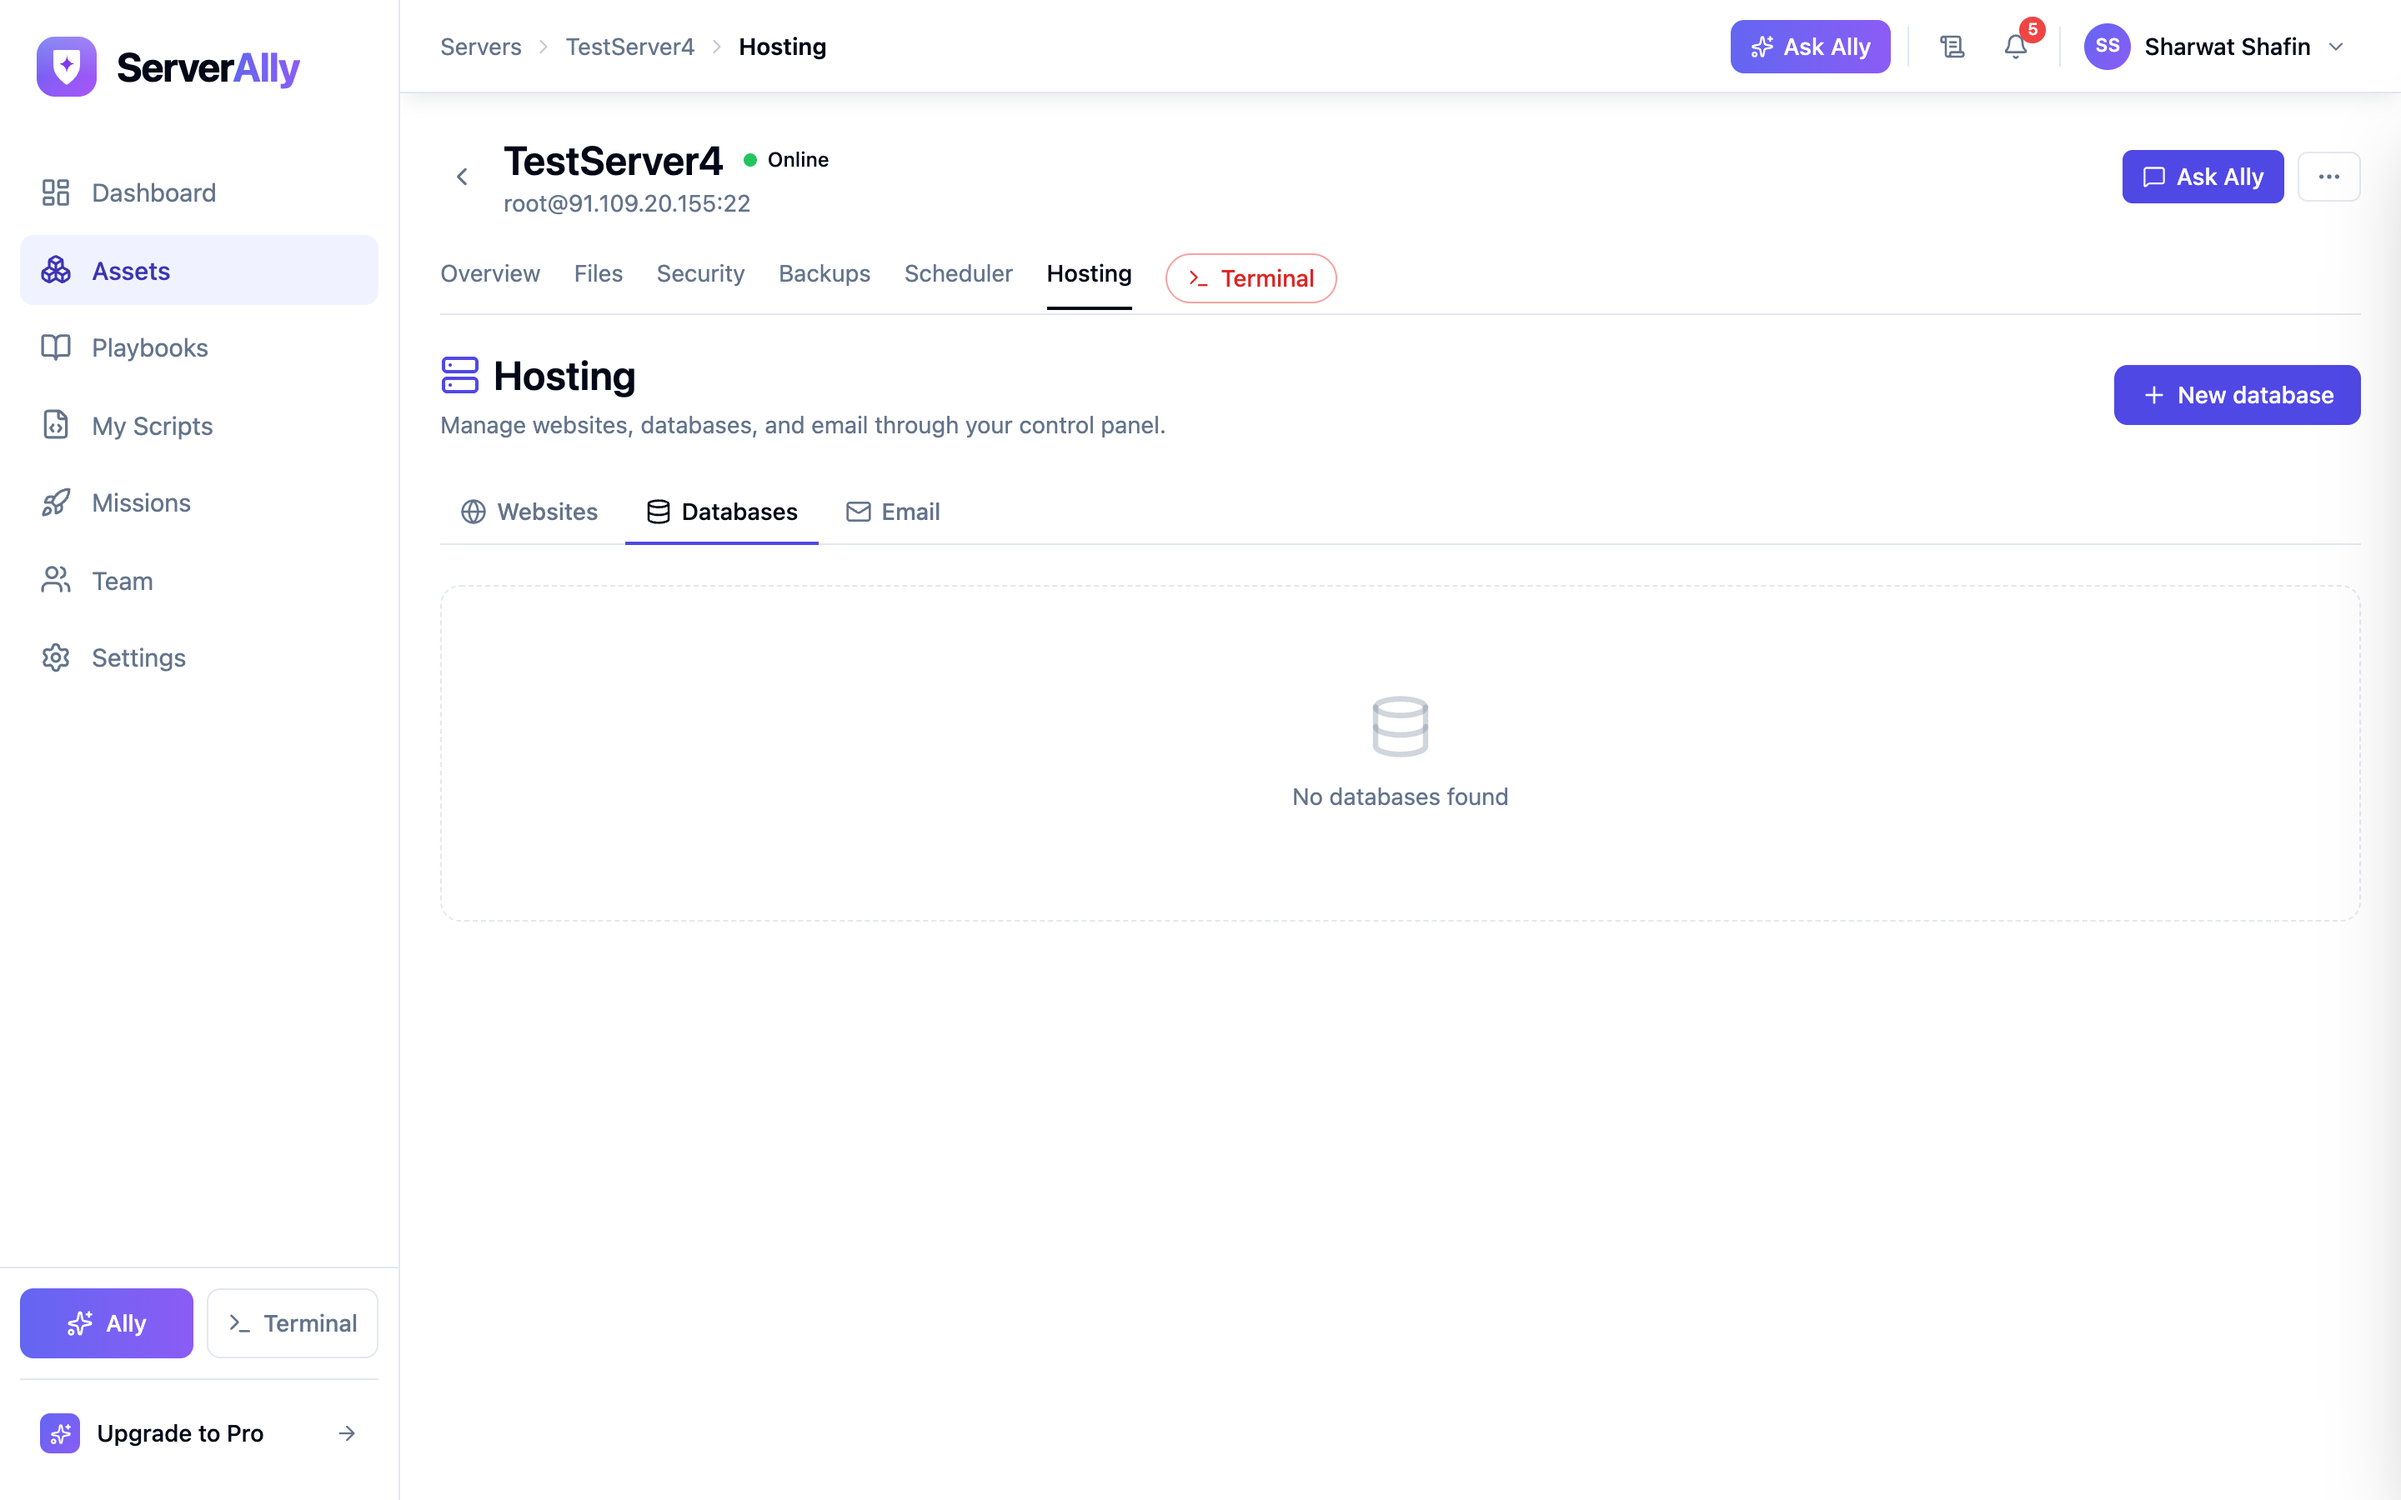
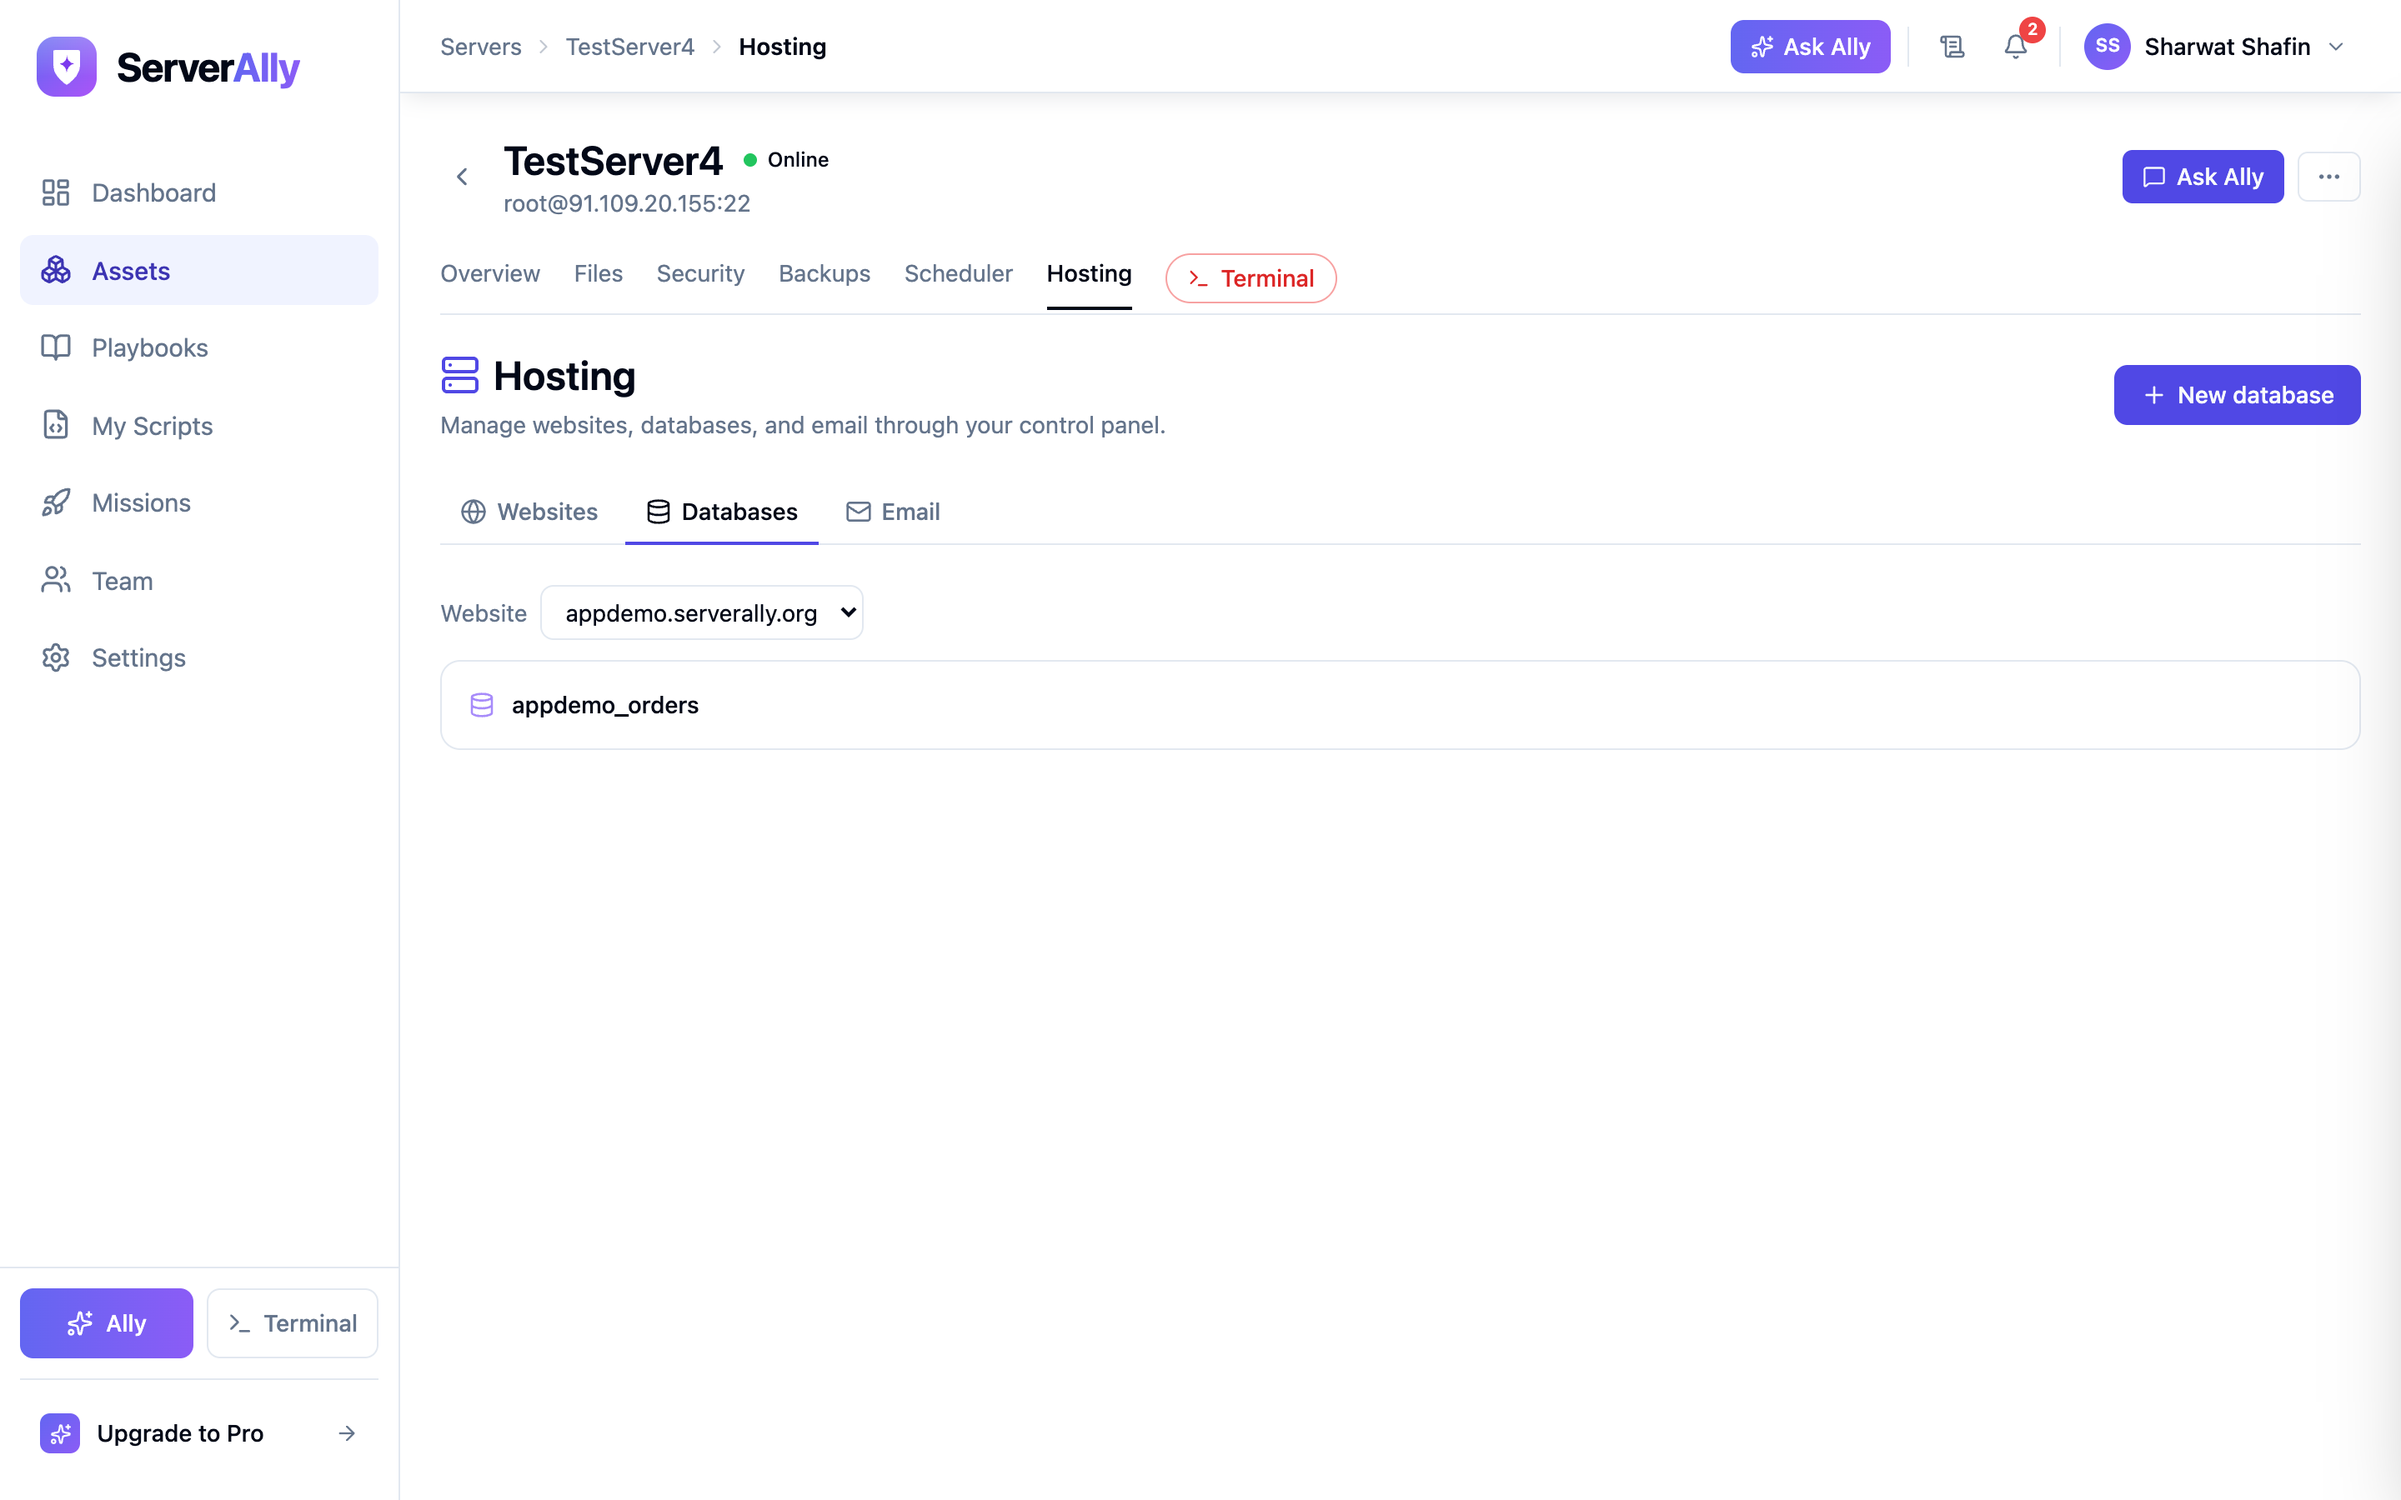
fix(hosting): CyberPanel Databases tab always read empty - two real bugs
Went to create a demo database on TestServer4 for the marketing screenshot
and found the Databases tab is actually broken for every CyberPanel-over-SSH
server, not just this one:

1. list_databases never passed a domain. CyberPanel's listDatabasesJson is
   scoped per-website (databaseWebsite flag) - without it, the CLI just
   prints a usage message, which the parser reads as zero databases.
   Threaded an optional domain through the router -> service -> CLI, same
   pattern list_email already used. Hosting.tsx now shows a website picker
   on the Databases tab (defaulting to the first site) so a domain is always
   supplied; the create-database modal prefills that domain so a new DB
   lands in the view you're already looking at.

2. Even WITH a domain and a real database present, _parse_json_list still
   returned []. listDatabasesJson prints the array double-JSON-encoded as a
   quoted string when there's a result, not a bare array, so the
   startswith-bracket check skipped it entirely. Parser now accepts a
   leading quote too and unwraps one extra JSON-string layer if needed; bare
   arrays and non-JSON usage messages still behave exactly as before.

Verified live: created a real database (appdemo_orders) on TestServer4 via
the app's own POST /hosting/databases endpoint (the same path New Database
hits), confirmed it now appears through the real HTTP GET and browser UI.
Backend suite 458 passed / 12 skipped, frontend 45 vitest pass, build clean.

Changed region(s): [[0.1875, 0.4044, 0.3438, 0.4356], [0.5625, 0.4667, 0.625, 0.56], [0.2188, 0.4667, 0.2812, 0.4978]]

diff --git a/frontend/src/routes/Hosting.tsx b/frontend/src/routes/Hosting.tsx
@@ -1,4 +1,4 @@
-import { useState } from "react"
+import { useState, useEffect } from "react"
 import { useParams } from "react-router-dom"
 import { useQuery, useMutation, useQueryClient } from "@tanstack/react-query"
 import {
@@ -49,6 +49,7 @@ function FieldModal({
   onSubmit,
   isPending,
   error,
+  initialValues,
 }: {
   title: string
   fields: { key: string; label: string; placeholder?: string; type?: string; required?: boolean }[]
@@ -56,8 +57,9 @@ function FieldModal({
   onSubmit: (values: Record<string, string>) => void
   isPending: boolean
   error?: string
+  initialValues?: Record<string, string>
 }) {
-  const [values, setValues] = useState<Record<string, string>>({})
+  const [values, setValues] = useState<Record<string, string>>(initialValues ?? {})
   const valid = fields.every((f) => !f.required || (values[f.key] ?? "").trim())
   return (
     <div className="fixed inset-0 z-50 flex items-center justify-center bg-black/60 backdrop-blur-sm p-4">
@@ -101,16 +103,22 @@ export default function Hosting() {
   const qc = useQueryClient()
   const [tab, setTab] = useState<Tab>("websites")
   const [modal, setModal] = useState<"website" | "database" | "email" | null>(null)
+  // Some panels (CyberPanel) scope databases per-website — a domain must be picked
+  // or the list always reads empty even when databases exist.
+  const [dbDomain, setDbDomain] = useState<string | null>(null)
 
   const websitesQ = useQuery({
     queryKey: ["hosting-websites", serverId],
     queryFn: () => listWebsites(serverId!),
-    enabled: !!serverId && tab === "websites",
+    enabled: !!serverId && (tab === "websites" || tab === "databases"),
     retry: false,
   })
+  useEffect(() => {
+    if (!dbDomain && websitesQ.data && websitesQ.data.length > 0) setDbDomain(websitesQ.data[0].domain)
+  }, [websitesQ.data, dbDomain])
   const databasesQ = useQuery({
-    queryKey: ["hosting-databases", serverId],
-    queryFn: () => listDatabases(serverId!),
+    queryKey: ["hosting-databases", serverId, dbDomain],
+    queryFn: () => listDatabases(serverId!, dbDomain ?? undefined),
     enabled: !!serverId && tab === "databases",
     retry: false,
   })
@@ -139,7 +147,11 @@ export default function Hosting() {
     mutationFn: (v: Record<string, string>) => createDatabase(serverId!, {
       domain: v.domain || null, db_name: v.db_name, db_user: v.db_user || null, db_password: v.db_password || null,
     }),
-    onSuccess: () => { setModal(null); refetchKey("hosting-databases") },
+    onSuccess: (_result, variables) => {
+      setModal(null)
+      if (variables.domain) setDbDomain(variables.domain) // view the site the new DB belongs to
+      refetchKey("hosting-databases")
+    },
   })
   const createEmailMut = useMutation({
     mutationFn: (v: Record<string, string>) => createEmail(serverId!, { user: v.user, domain: v.domain, password: v.password }),
@@ -230,20 +242,38 @@ export default function Hosting() {
       )}
 
       {/* Databases */}
-      {tab === "databases" && databasesQ.data && (
-        databasesQ.data.length === 0 ? (
-          <EmptyState icon={DatabaseIcon} text="No databases found" />
-        ) : (
-          <div className="space-y-2">
-            {databasesQ.data.map((d: HostingDatabase, i: number) => (
-              <div key={(d.db_name ?? "") + i} className="rounded-xl border border-border bg-card p-4 flex items-center gap-2.5">
-                <DatabaseIcon className="h-4 w-4 text-violet-400 shrink-0" />
-                <span className="text-sm text-foreground font-medium">{d.db_name}</span>
-                {d.size != null && <span className="text-xs text-muted-foreground ml-auto">{d.size}</span>}
+      {tab === "databases" && (
+        <div className="space-y-3">
+          {websitesQ.data && websitesQ.data.length > 0 && (
+            <label className="flex items-center gap-2 text-sm text-muted-foreground">
+              Website
+              <select
+                value={dbDomain ?? ""}
+                onChange={(e) => setDbDomain(e.target.value)}
+                className="rounded-lg border border-border bg-background px-2.5 py-1.5 text-sm text-foreground focus:outline-none focus:ring-2 focus:ring-primary/40"
+              >
+                {websitesQ.data.map((w: Website) => (
+                  <option key={w.domain} value={w.domain}>{w.domain}</option>
+                ))}
+              </select>
+            </label>
+          )}
+          {databasesQ.data && (
+            databasesQ.data.length === 0 ? (
+              <EmptyState icon={DatabaseIcon} text="No databases found" />
+            ) : (
+              <div className="space-y-2">
+                {databasesQ.data.map((d: HostingDatabase, i: number) => (
+                  <div key={(d.db_name ?? "") + i} className="rounded-xl border border-border bg-card p-4 flex items-center gap-2.5">
+                    <DatabaseIcon className="h-4 w-4 text-violet-400 shrink-0" />
+                    <span className="text-sm text-foreground font-medium">{d.db_name}</span>
+                    {d.size != null && <span className="text-xs text-muted-foreground ml-auto">{d.size}</span>}
+                  </div>
+                ))}
               </div>
-            ))}
-          </div>
-        )
+            )
+          )}
+        </div>
       )}
 
       {/* Email */}
@@ -285,6 +315,7 @@ export default function Hosting() {
             { key: "db_user", label: "DB user", placeholder: "myapp_user" },
             { key: "db_password", label: "DB password", type: "password" },
           ]}
+          initialValues={{ domain: dbDomain ?? "" }}
           isPending={createDbMut.isPending}
           error={createDbMut.isError ? errMsg(createDbMut.error) : undefined}
           onClose={() => setModal(null)}

diff --git a/frontend/src/api/hosting.ts b/frontend/src/api/hosting.ts
@@ -70,8 +70,10 @@ export async function issueSsl(serverId: string, domain: string): Promise<Action
   return res.data
 }
 
-export async function listDatabases(serverId: string): Promise<HostingDatabase[]> {
-  const res = await apiClient.get<HostingDatabase[]>(`${base(serverId)}/databases`)
+export async function listDatabases(serverId: string, domain?: string): Promise<HostingDatabase[]> {
+  const res = await apiClient.get<HostingDatabase[]>(`${base(serverId)}/databases`, {
+    params: domain ? { domain } : {},
+  })
   return res.data
 }
 

diff --git a/backend/app/services/cyberpanel_cli.py b/backend/app/services/cyberpanel_cli.py
@@ -94,17 +94,25 @@ def _parse_status(raw: str, ok_key: str) -> dict:
 
 
 def _parse_json_list(raw: str) -> list:
-    """listWebsitesJson / listDatabasesJson print a JSON array (possibly amid other
-    lines). Return the first array found, else []."""
+    """listWebsitesJson / listDatabasesJson print a JSON array — usually bare
+    (``[...]``), but listDatabasesJson has been observed printing it DOUBLE-encoded
+    as a JSON string (``"[...]"``, quotes escaped) when a domain has databases.
+    Try both forms; return the first array found, else []."""
     for line in raw.strip().splitlines():
         line = line.strip()
-        if line.startswith("["):
+        if not line or line[0] not in "[\"":
+            continue
+        try:
+            data = json.loads(line)
+        except ValueError:
+            continue
+        if isinstance(data, str):
             try:
-                data = json.loads(line)
-                if isinstance(data, list):
-                    return data
+                data = json.loads(data)
             except ValueError:
                 continue
+        if isinstance(data, list):
+            return data
     return []
 
 

diff --git a/backend/app/routers/hosting.py b/backend/app/routers/hosting.py
@@ -88,10 +88,10 @@ async def issue_ssl(server_id: str, domain: str, db: DBDep, current_user: Curren
 # ── Databases ───────────────────────────────────────────────────────────────
 
 @router.get("/databases", response_model=list[Database])
-async def list_databases(server_id: str, db: DBDep, current_user: CurrentUser):
+async def list_databases(server_id: str, db: DBDep, current_user: CurrentUser, domain: str | None = Query(default=None)):
     server = await _hosting_server(server_id, current_user, db)
     try:
-        return await hosting_service.list_databases(server)
+        return await hosting_service.list_databases(server, domain)
     except HostingError as exc:
         raise _wrap(exc)
 

diff --git a/backend/app/services/hosting_service.py b/backend/app/services/hosting_service.py
@@ -384,10 +384,12 @@ async def issue_ssl(server: Server, domain: str) -> dict:
     return await _run(_adapter(server).issue_ssl, domain)
 
 
-async def list_databases(server: Server) -> list[dict]:
+async def list_databases(server: Server, domain: str | None = None) -> list[dict]:
     if _cli_server(server):
+        # CyberPanel's listDatabasesJson is scoped per-website — it errors without
+        # --databaseWebsite, so a missing domain must not silently read as "no databases".
         from app.services import cyberpanel_cli
-        return await cyberpanel_cli.list_databases(server)
+        return await cyberpanel_cli.list_databases(server, domain)
     return await _run(_adapter(server).list_databases)
 
 
